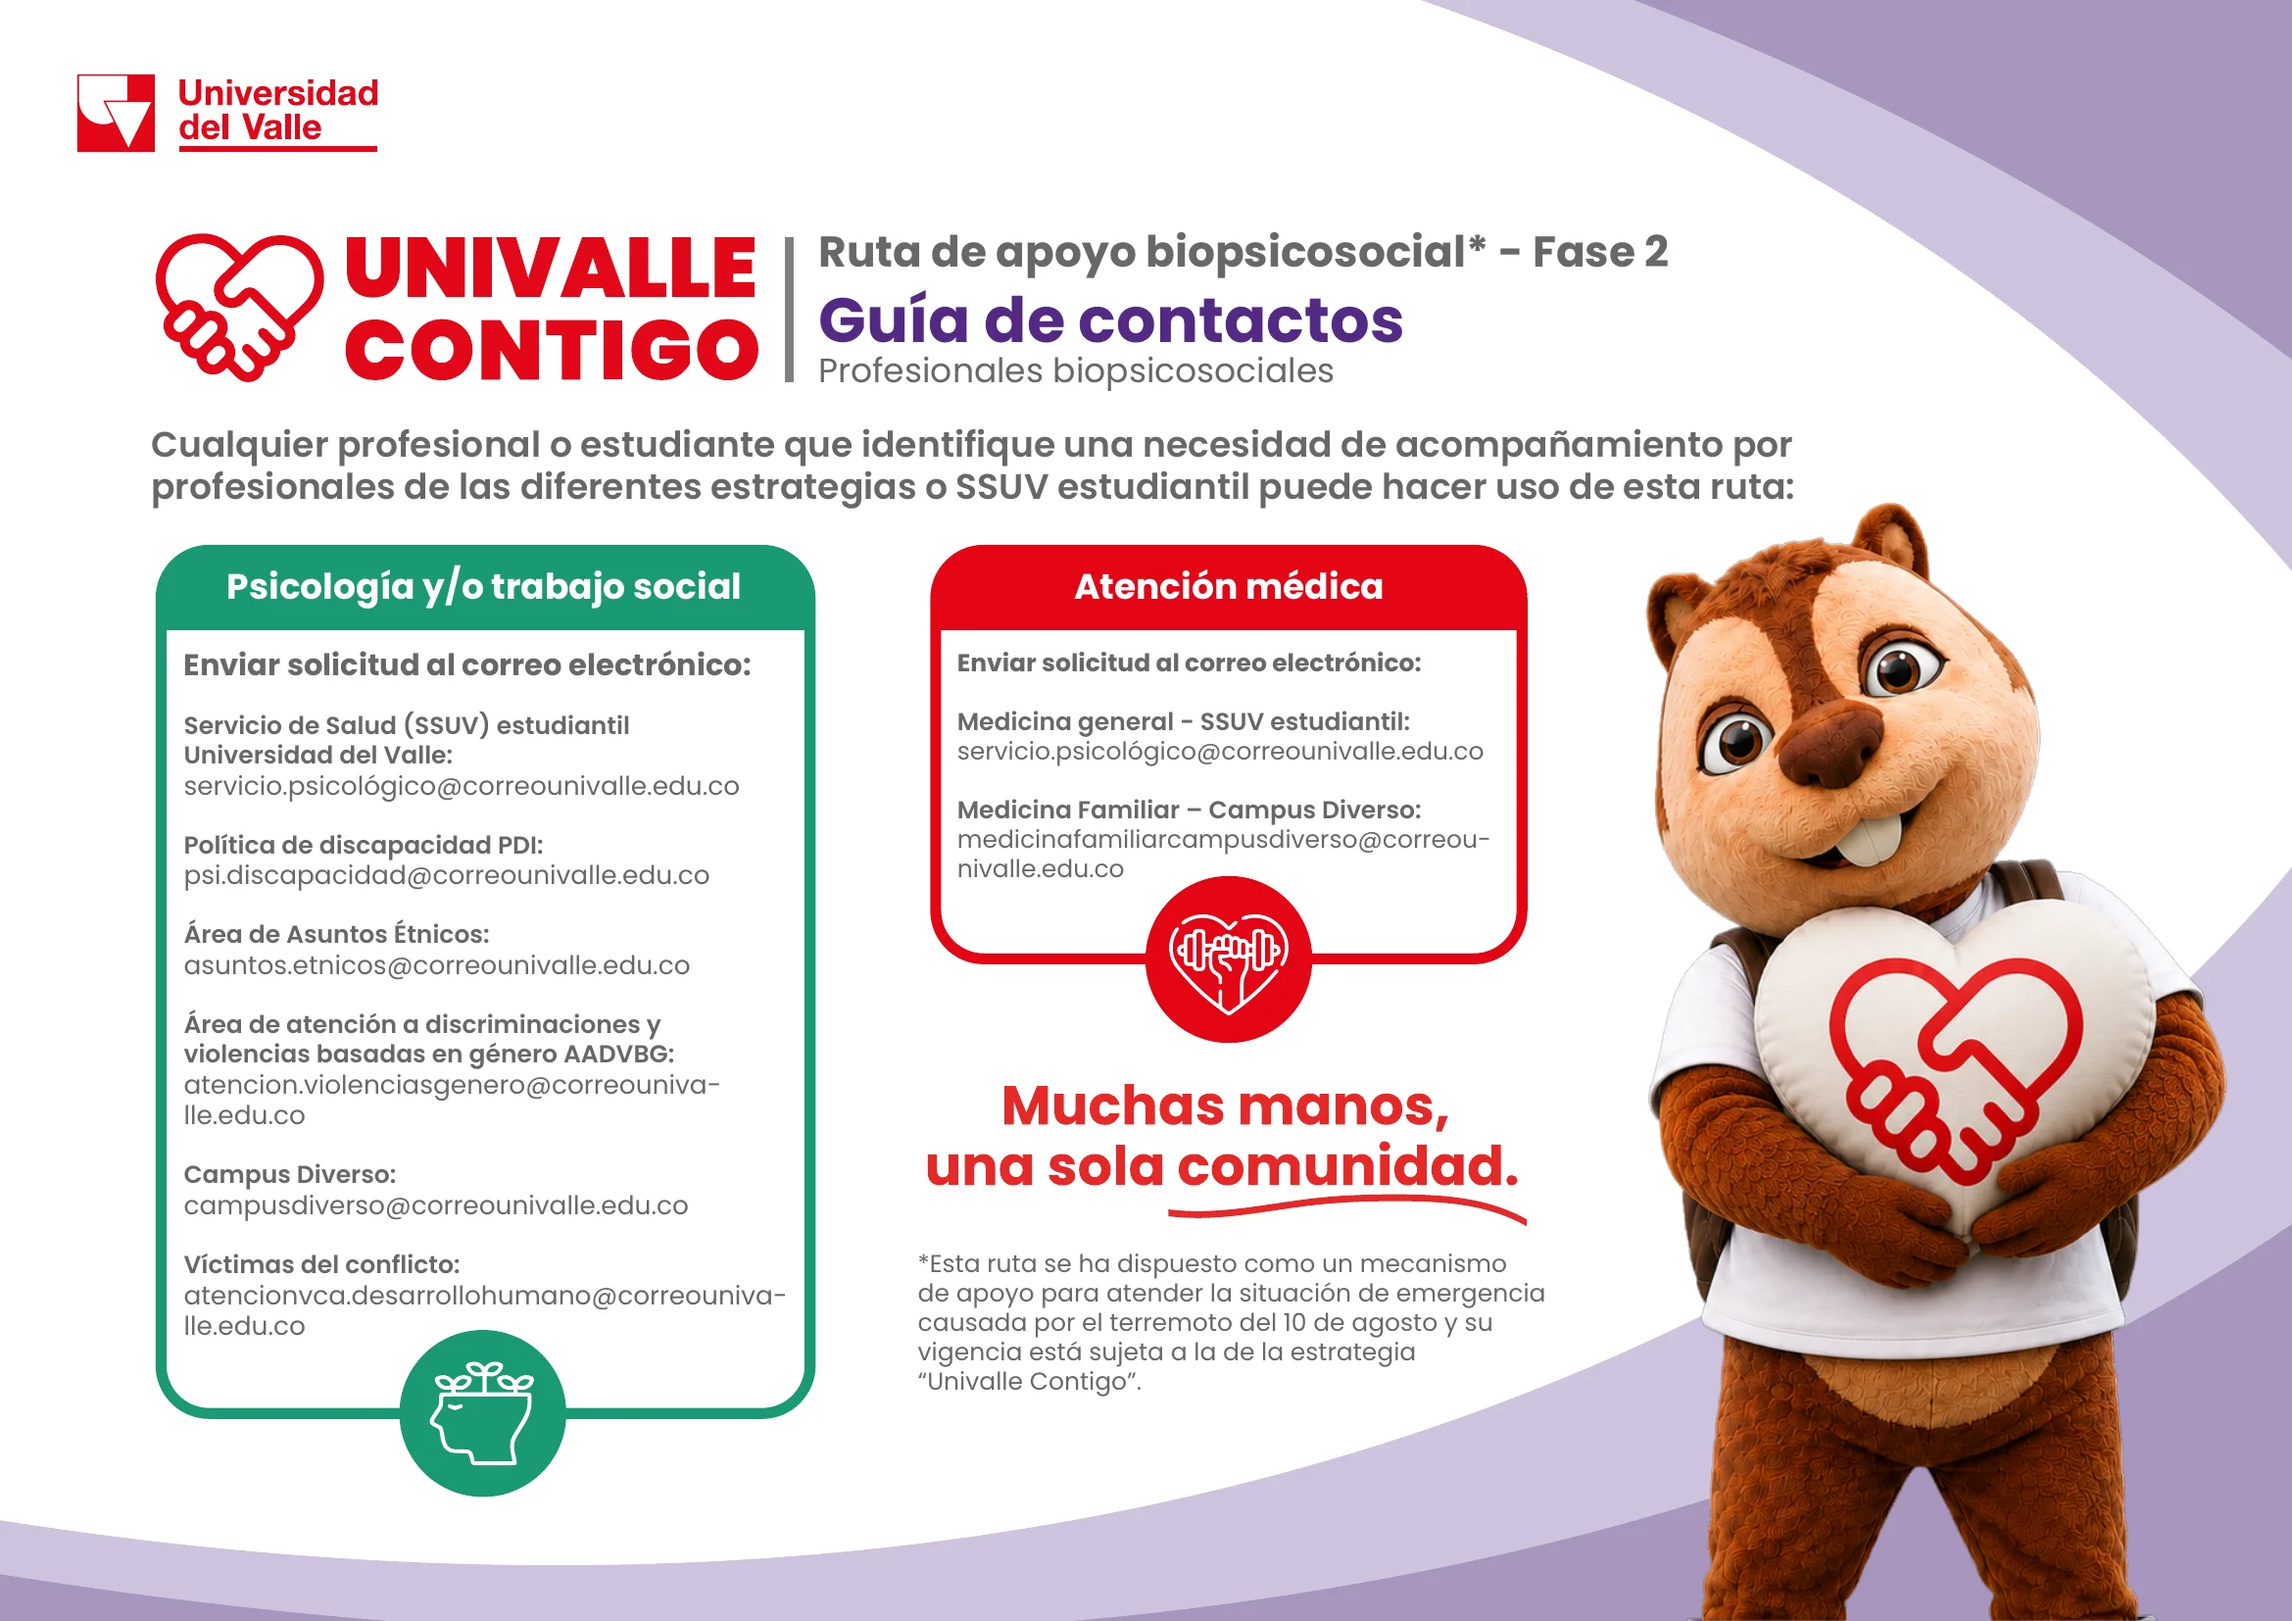
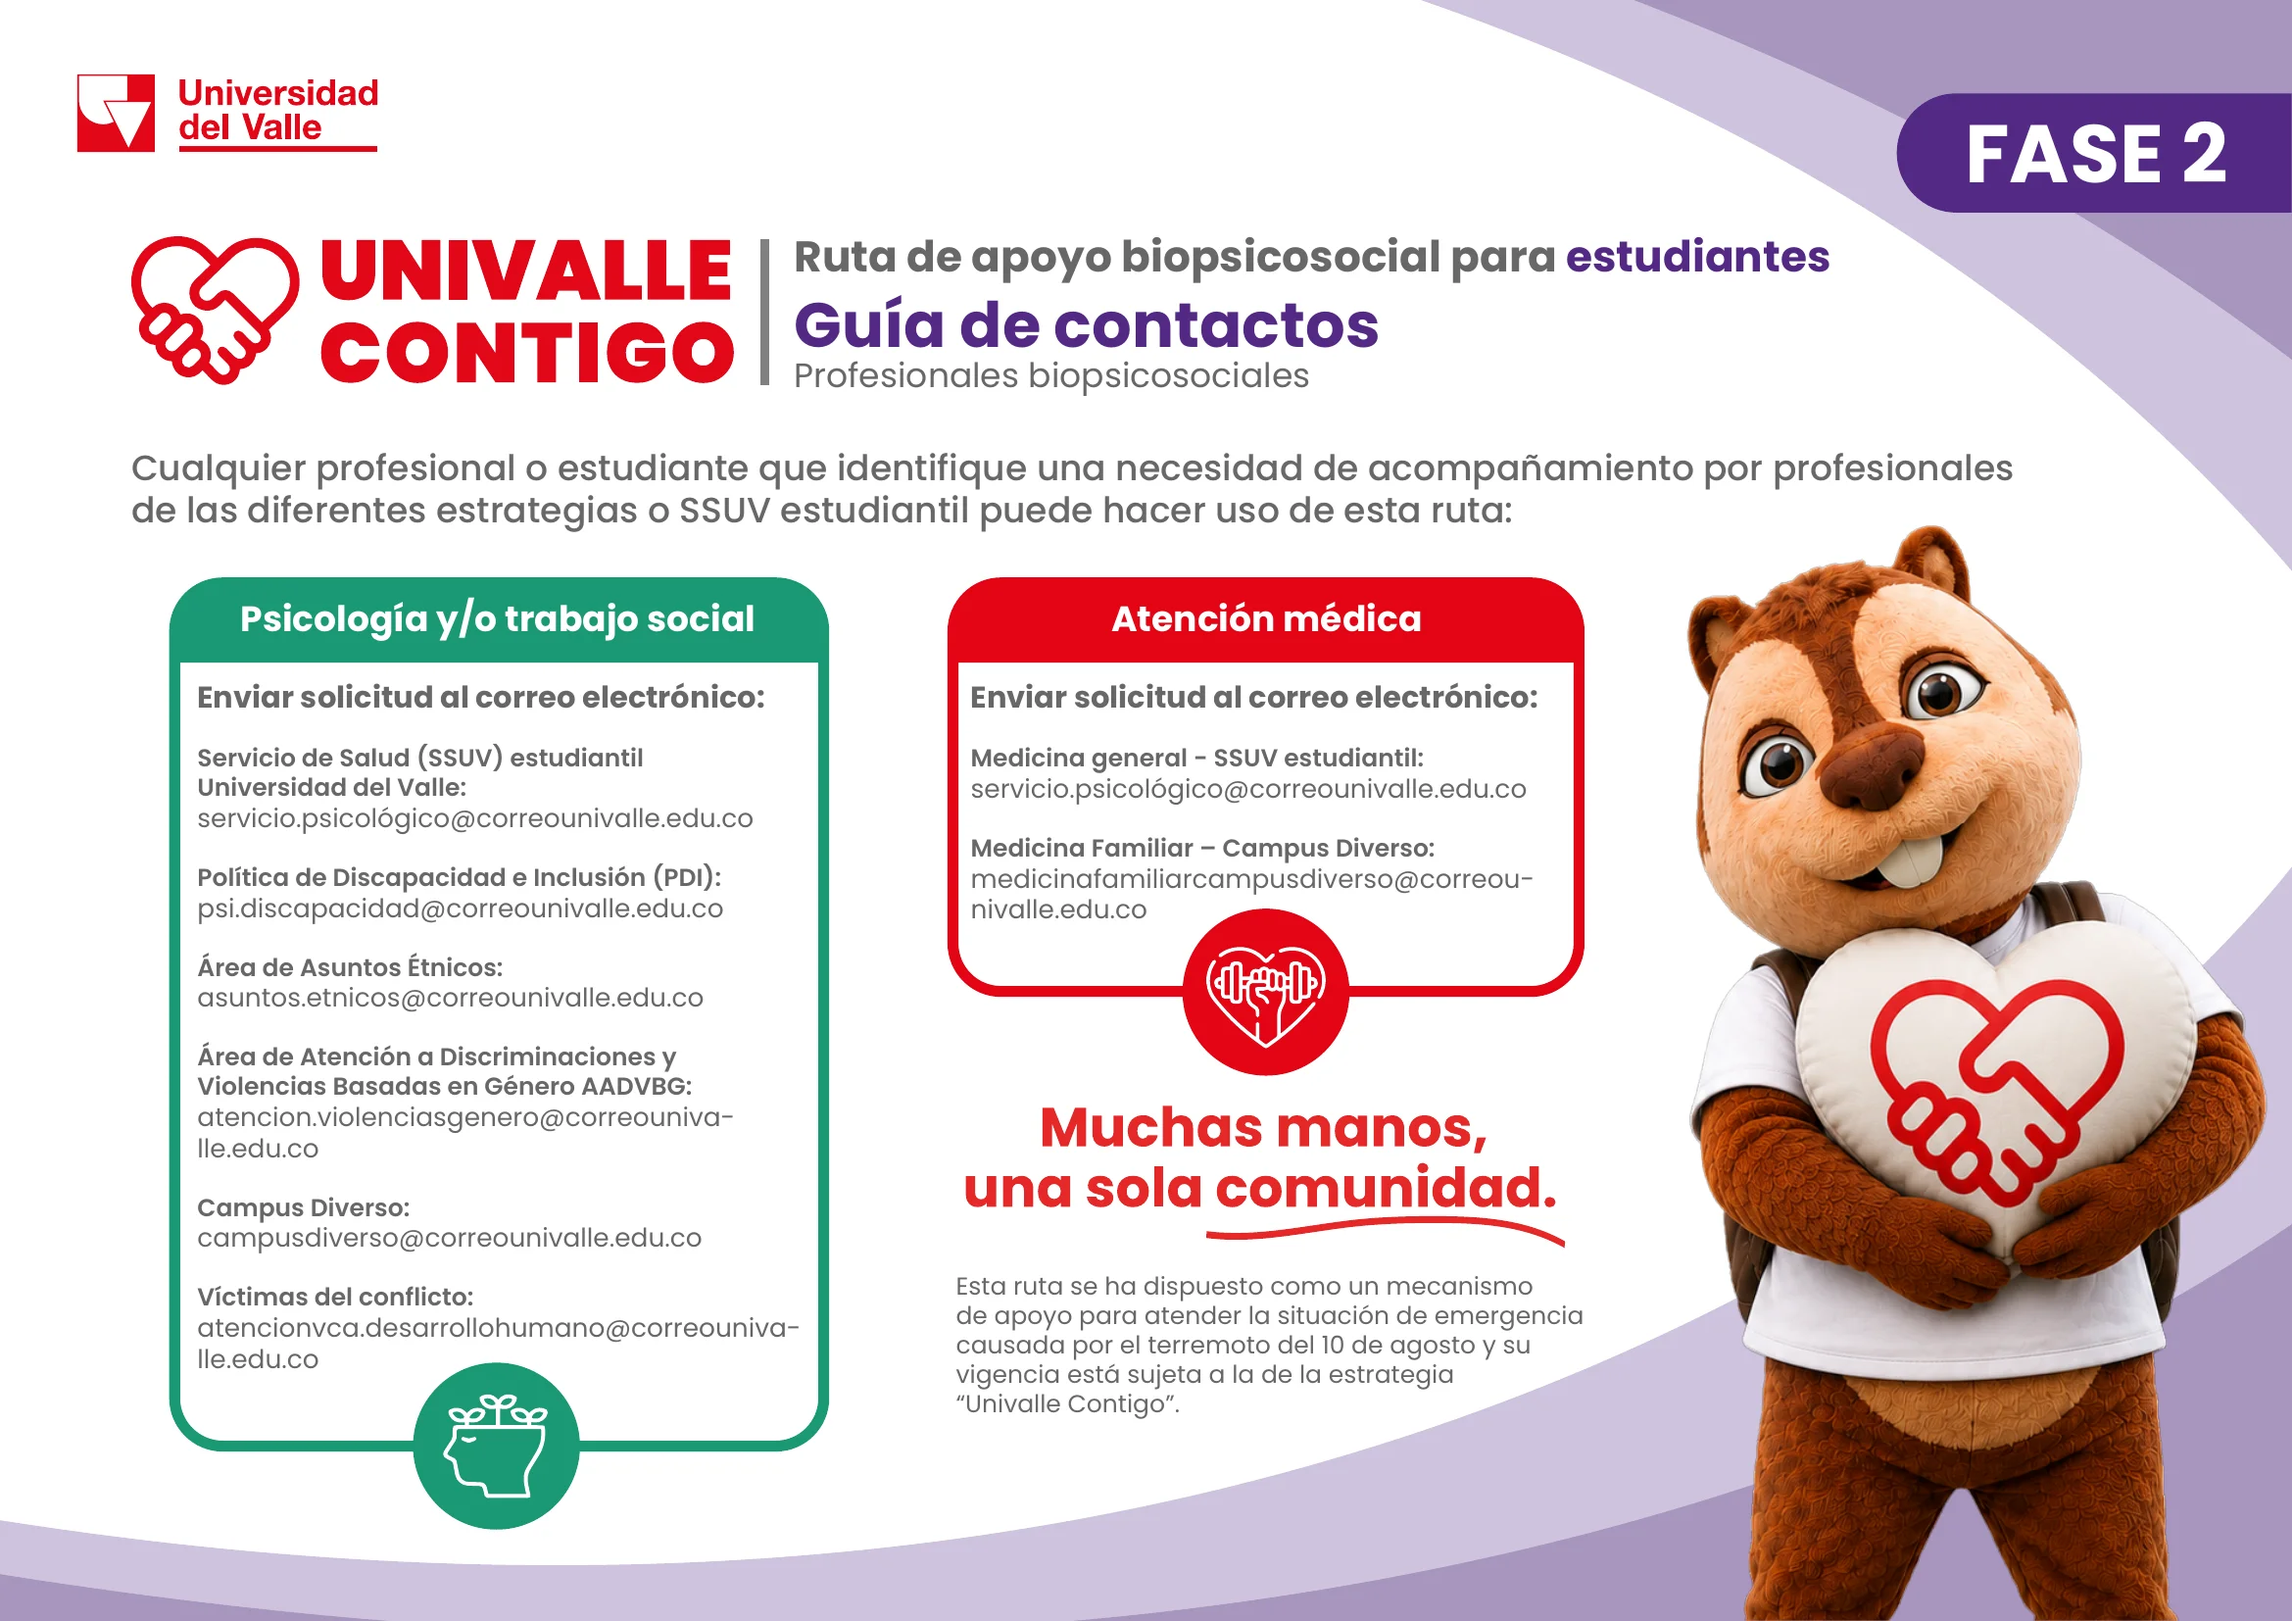
feat: actualizar rutas de atención (3→5) y agregar Campus 219 al carrusel
Reemplaza las 3 infografías de rutas con las 5 versiones actualizadas
enviadas por Nelson Molina (11 sep 2026): Salud Física, Psicosocial,
Guía de Contactos, Regionalización (nueva), Docentes y Funcionarios (nueva).
Agrega portada de Campus Edición 219 (sep 2026, Univalle Contigo) como
6to slide del carrusel.

Claude-Session: https://claude.ai/code/session_01B8vgYeXRL17wS9v5YJcJYC

Changed region(s): [[0.0312, 0.1233, 0.9987, 1.0], [0.8115, 0.0308, 1.0, 0.1542]]

diff --git a/src/components/resources/ruta-carousel.tsx b/src/components/resources/ruta-carousel.tsx
@@ -12,17 +12,32 @@ const ITEMS: RutaItem[] = [
   {
     title: "Fase 1: Salud Física",
     src: "/assets/ruta/ruta-salud-fisica.webp",
-    alt: "Ruta de atención - Fase 1: Salud Física",
+    alt: "Ruta de atención - Fase 1: Salud Física (estudiantes)",
   },
   {
     title: "Fase 1: Psicosocial",
     src: "/assets/ruta/ruta-psicosocial.webp",
-    alt: "Ruta de atención - Fase 1: Psicosocial",
+    alt: "Ruta de atención - Fase 1: Dimensión Psicosocial (estudiantes)",
   },
   {
     title: "Fase 2: Guía de Contactos",
     src: "/assets/ruta/ruta-contactos.webp",
-    alt: "Ruta de atención - Fase 2: Guía de Contactos",
+    alt: "Ruta de atención - Fase 2: Guía de Contactos Profesionales Biopsicosociales",
+  },
+  {
+    title: "Fase 2: Regionalización",
+    src: "/assets/ruta/ruta-regionalizacion.webp",
+    alt: "Ruta de atención - Fase 2: Sistema de Regionalización, Sedes, Seccionales y Nodos",
+  },
+  {
+    title: "Fase 2: Docentes y Funcionarios",
+    src: "/assets/ruta/ruta-docentes.webp",
+    alt: "Ruta de atención - Fase 2: Guía de Contactos para Docentes y Funcionarios",
+  },
+  {
+    title: "Campus 219 — Univalle Contigo",
+    src: "/assets/ruta/campus-219.webp",
+    alt: "Revista Campus Edición 219, septiembre 2026 — Univalle Contigo",
   },
 ];
 

diff --git a/CLAUDE.md b/CLAUDE.md
@@ -135,12 +135,15 @@ Cross-links: recursos-psi → reconstruir-psi (footer únicamente, enlace "Guía
 
 ### RutaCarousel (`ruta-carousel.tsx`)
 
-Carrusel client-side con las 3 infografías de la Ruta de atención Univalle Contigo (PDF enviado por Nelson Molina, 31 ago 2026). Ubicado al final del home, después de las section cards.
+Carrusel client-side con 5 infografías de la Ruta de atención Univalle Contigo + portada Campus 219 (PDFs enviados por Nelson Molina, 11 sep 2026). Ubicado al final del home, después de las section cards.
 
-- **Imágenes:** `public/assets/ruta/` (3 WebP ~240KB c/u, extraídas del PDF a 200dpi)
+- **Imágenes:** `public/assets/ruta/` (6 WebP ~240-340KB c/u, extraídas de PDF a 200dpi)
   - `ruta-salud-fisica.webp` — Fase 1: Salud Física (telecontacto estudiantes)
-  - `ruta-psicosocial.webp` — Fase 1: Psicosocial (telecontacto estudiantes)
-  - `ruta-contactos.webp` — Fase 2: Guía de Contactos (profesionales biopsicosociales)
+  - `ruta-psicosocial.webp` — Fase 1: Dimensión Psicosocial (telecontacto estudiantes)
+  - `ruta-contactos.webp` — Fase 2: Guía de Contactos Profesionales Biopsicosociales
+  - `ruta-regionalizacion.webp` — Fase 2: Sistema de Regionalización, Sedes, Seccionales y Nodos
+  - `ruta-docentes.webp` — Fase 2: Guía de Contactos para Docentes y Funcionarios
+  - `campus-219.webp` — Portada Campus Edición 219, septiembre 2026 (Univalle Contigo)
 - **Funcionalidades:** auto-avance 6s (pausa en hover/touch), dots de navegación, flechas desktop (hover), swipe mobile, lightbox con modal al hacer clic, navegación por teclado (ESC, flechas)
 - **Layout home:** Logo Univalle Contigo + Uvardilla a la derecha → Hero → Stats → Emergencia → Section cards → **Rutas de atención** (título h2 grande) → Footer
 
